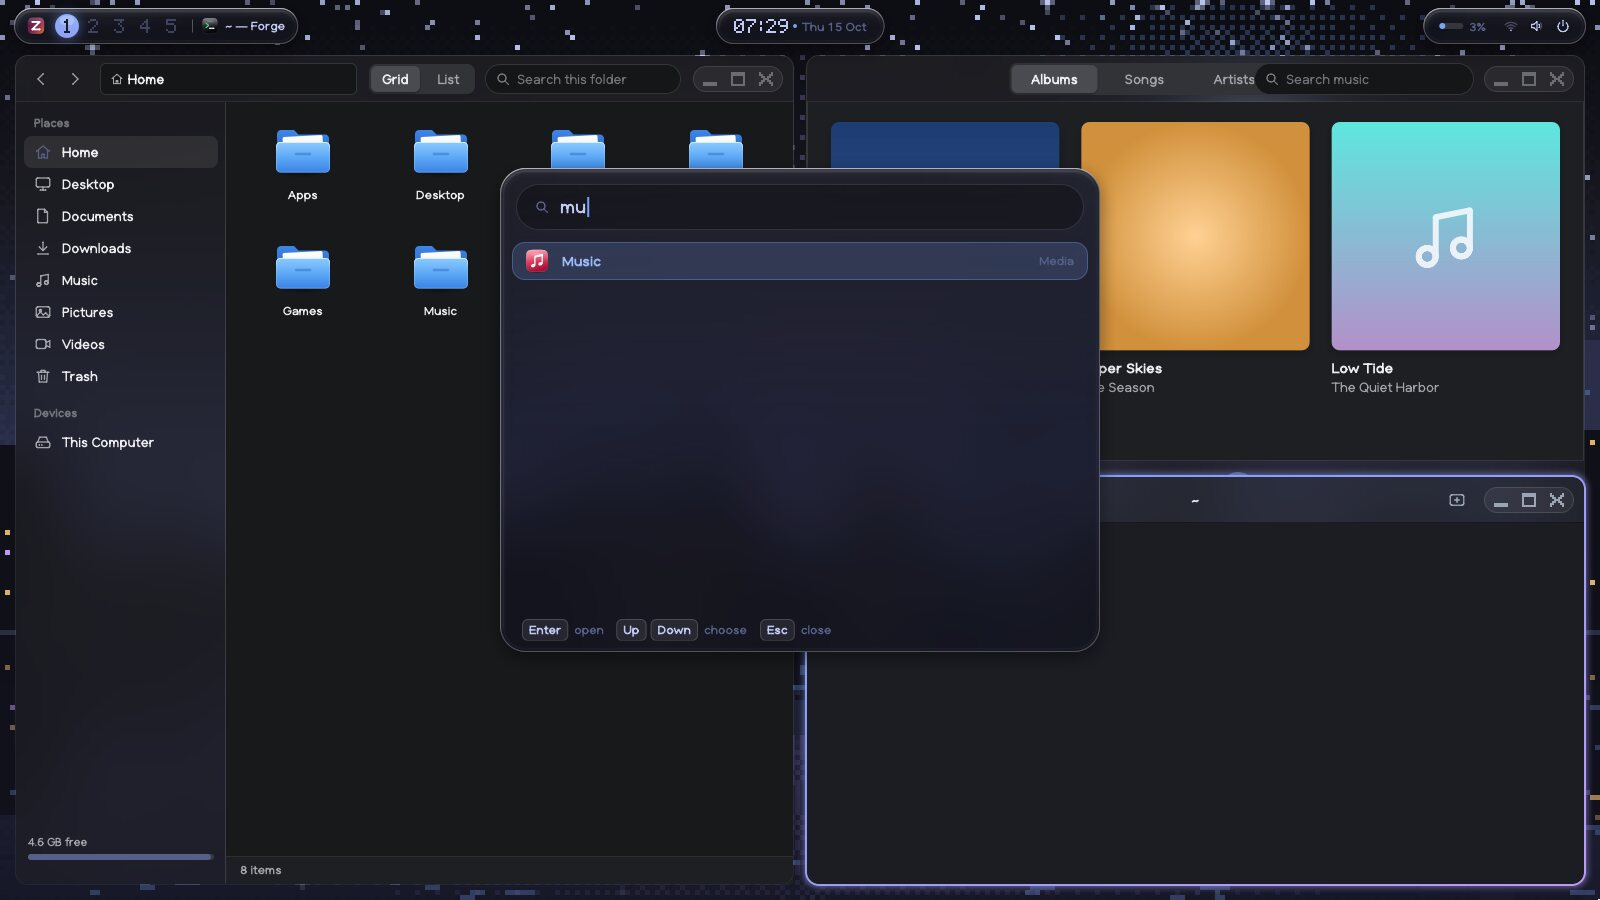
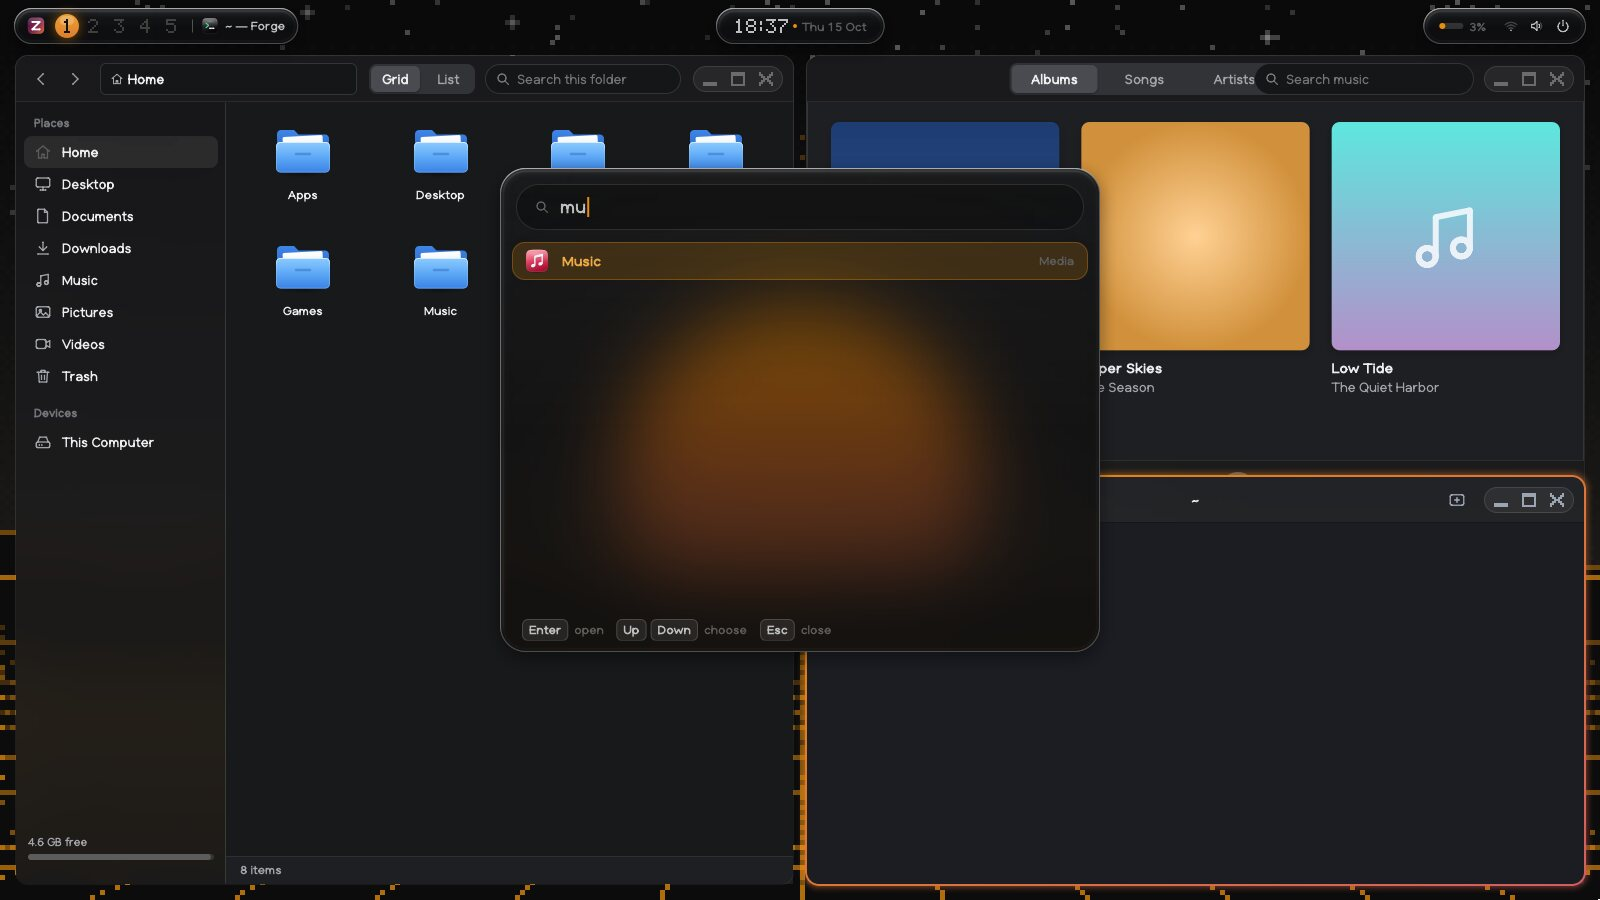
Website: Carbon by default, Midnight beside it, the name in big pixels
The page keeps the two themes the system has now, Carbon (the default)
and Midnight, with their own screenshots and wallpapers; a visitor who
had picked Matte Black or Tokyo Night gets them under the new names.

The name at the top is drawn in big pixels: letters of 11 by 13 with
stepped corners, bands of the theme's colours from top to bottom with
their edges dithered, a light along each top edge, a darker edge where a
stroke ends, a shadow a pixel down and right. It builds up block by
block as the page opens, in the ordered pattern Zurbax's windows use.
The text stays in the heading for readers and search.

Claude-Session: https://claude.ai/code/session_0191TWPGBXVuoaNNnLBj1uWH

diff --git a/website/index.html b/website/index.html
@@ -1,19 +1,19 @@
 <!doctype html>
-<html lang="en" data-theme="tokyo-night" class="no-js">
+<html lang="en" data-theme="carbon" class="no-js">
 <head>
 <meta charset="utf-8">
 <meta name="viewport" content="width=device-width, initial-scale=1">
 <title>Zurbax — liquid glass, moving pixels</title>
-<meta name="description" content="Zurbax is a desktop operating system written from the first line: Hive, a tiling desktop of liquid glass and moving pixels, eight themes, Steam and Proton, Flathub, and a driver for every part of every PC on one install image.">
+<meta name="description" content="Zurbax is a desktop operating system written from the first line: Hive, a tiling desktop of liquid glass and moving pixels, Steam and Proton, Flathub, and a driver for every part of every PC on one install image.">
 <link rel="canonical" href="https://www.zurbax.com/">
 <meta property="og:site_name" content="Zurbax">
 <meta property="og:type" content="website">
 <meta property="og:title" content="Zurbax — liquid glass, moving pixels">
 <meta property="og:description" content="A desktop operating system written from the first line. Tiled, glass, pixel-alive, and ready to play.">
-<meta property="og:image" content="https://www.zurbax.com/images/hive/hive-tokyo-night.jpg">
+<meta property="og:image" content="https://www.zurbax.com/images/hive/hive-carbon.jpg">
 <meta property="og:url" content="https://www.zurbax.com/">
 <meta name="twitter:card" content="summary_large_image">
-<meta name="theme-color" content="#1a1b26">
+<meta name="theme-color" content="#121212">
 <link rel="icon" href="/favicon.ico?v=4" sizes="48x48">
 <link rel="icon" href="/images/favicon-32.png?v=4" type="image/png" sizes="32x32">
 <link rel="icon" href="/images/tab-icon.svg?v=4" type="image/svg+xml">
@@ -23,7 +23,7 @@
  {"@type":"WebSite","name":"Zurbax","url":"https://www.zurbax.com/"},
  {"@type":"SoftwareApplication","name":"Zurbax","applicationCategory":"OperatingSystem","operatingSystem":"PC (x86-64, UEFI)",
   "description":"A free desktop operating system written from the first line, with a tiling desktop of liquid glass, Steam and Proton, Flathub and drivers for every graphics card.",
-  "url":"https://www.zurbax.com/","image":"https://www.zurbax.com/images/hive/hive-tokyo-night.jpg","offers":{"@type":"Offer","price":"0","priceCurrency":"USD"}}
+  "url":"https://www.zurbax.com/","image":"https://www.zurbax.com/images/hive/hive-carbon.jpg","offers":{"@type":"Offer","price":"0","priceCurrency":"USD"}}
 ]}
 </script>
 <script>
@@ -33,8 +33,8 @@
 <link rel="preconnect" href="https://fonts.googleapis.com">
 <link rel="preconnect" href="https://fonts.gstatic.com" crossorigin>
 <link href="https://fonts.googleapis.com/css2?family=Geist:wght@400..800&family=JetBrains+Mono:wght@400;500;700&display=swap" rel="stylesheet">
-<link rel="stylesheet" href="/home.css?v=1">
-<script src="/home.js?v=1" defer></script>
+<link rel="stylesheet" href="/home.css?v=2">
+<script src="/home.js?v=2" defer></script>
 </head>
 <body>
 
@@ -52,7 +52,7 @@
     <div class="bar-end">
       <div class="picker">
         <button class="picker-btn" type="button" aria-haspopup="true" aria-expanded="false" aria-label="Theme">
-          <span class="dots" aria-hidden="true"><i></i><i></i><i></i></span><span class="picker-name">Tokyo Night</span>
+          <span class="dots" aria-hidden="true"><i></i><i></i><i></i></span><span class="picker-name">Carbon</span>
         </button>
         <ul class="picker-list" role="menu" hidden></ul>
       </div>
@@ -69,7 +69,7 @@
   <div class="hero-bg" aria-hidden="true"><canvas class="stars"></canvas></div>
   <div class="wrap hero-in">
     <p class="kicker">zurbax 2.1 lts · written from the first line</p>
-    <h1 class="mark">Zurbax</h1>
+    <h1 class="mark"><span class="mark-text">Zurbax</span><svg class="pixel-mark" aria-hidden="true" shape-rendering="crispEdges"></svg></h1>
     <p class="tag-line">A desktop operating system of <em>liquid glass</em> and <em>moving pixels</em>. Tiled, themed, and fast, with Steam and every driver already on it.</p>
     <div class="cta">
       <a class="btn" href="#install">Get Zurbax</a>
@@ -79,7 +79,7 @@
   </div>
   <div class="wrap">
     <figure class="screen">
-      <img class="shot" src="/images/hive/hive-tokyo-night.jpg" alt="Hive: Files, Music and a terminal side by side under a floating bar of glass" width="1600" height="900">
+      <img class="shot" src="/images/hive/hive-carbon.jpg" alt="Hive: Files, Music and a terminal side by side under a floating bar of glass" width="1600" height="900">
     </figure>
   </div>
 </section>
@@ -104,7 +104,7 @@
     <p>Real screens, straight from Zurbax.</p>
   </div>
   <div class="gallery">
-    <figure class="card rise"><img src="/images/hive/hive-tokyo-night.jpg" alt="" loading="lazy" width="1600" height="900"><figcaption><b>Tiles, not clutter</b><span>Each window splits the one in focus. Gaps, glass, a ring of light around the one you're in.</span></figcaption></figure>
+    <figure class="card rise"><img src="/images/hive/hive-midnight.jpg" alt="" loading="lazy" width="1600" height="900"><figcaption><b>Tiles, not clutter</b><span>Each window splits the one in focus. Gaps, glass, a ring of light around the one you're in.</span></figcaption></figure>
     <figure class="card rise"><img src="/images/hive/hive-launcher.jpg" alt="" loading="lazy" width="1600" height="900"><figcaption><b>Super + Space</b><span>A pane of glass: type, press Enter, it's open.</span></figcaption></figure>
     <figure class="card rise"><img src="/images/hive/hive-keys.jpg" alt="" loading="lazy" width="1600" height="900"><figcaption><b>Every key at a glance</b><span>Super + K shows them all, as keycaps.</span></figcaption></figure>
     <figure class="card rise"><img src="/images/hive/hive-settings.jpg" alt="" loading="lazy" width="1600" height="900"><figcaption><b>Glass all the way in</b><span>Apps' headers and sidebars are frosted glass the wallpaper shows through.</span></figcaption></figure>
@@ -135,8 +135,8 @@
 
 <section id="themes" class="themes wrap">
   <div class="head">
-    <h2>Eight themes. This page wears them too.</h2>
-    <p>Each one colours the rings, the glass and every app, and brings its own pixel-art wallpaper, painted by the system itself. Pick one and watch.</p>
+    <h2>Two themes. This page wears them too.</h2>
+    <p>Carbon, black and orange, and Midnight, deep blue and violet. Each colours the rings, the glass and every app, and brings its own pixel-art wallpaper, painted by the system itself. Pick one and watch.</p>
   </div>
   <ul class="theme-grid"></ul>
 </section>
@@ -147,7 +147,7 @@
     <div class="pix-copy">
       <p class="kicker">the pixel style</p>
       <h2>It moves.</h2>
-      <p>The wallpapers are alive, on their own grid of big pixels: stars twinkle and now and then one shoots across, snow falls over Nord, fireflies wander the forest, petals drift past Fuji, birds cross the desert, light glitters on the water.</p>
+      <p>The wallpapers are alive, on their own grid of big pixels: stars twinkle and now and then one shoots across, lines run down Carbon's grid towards you, and light glitters on the river under Midnight's city.</p>
       <p>Windows build up block by block as they open and fall apart the same way as they close. Maximize one, or send it to the tray, and it passes through a mosaic on the way. The pointer, the clock and the workspace numbers are drawn in pixels too.</p>
       <p class="fine">All of it costs about a quarter of one percent of a processor, and one switch in Settings turns it off.</p>
     </div>

diff --git a/website/home.css b/website/home.css
@@ -1,37 +1,16 @@
 /* zurbax.com: one dark page in the colours of Hive's themes */
 
 :root,
-[data-theme="tokyo-night"] {
-	--deep: #13141c; --bg: #1a1b26; --surface: #1f2230; --surface-2: #24283b; --border: #2a2e45; --border-2: #414868;
-	--text: #c0caf5; --text-2: #a9b1d6; --muted: #8b93b8; --brand: #7aa2f7; --brand-2: #bb9af7; --ink: #0c0e14;
-}
-[data-theme="catppuccin"] {
-	--deep: #161622; --bg: #1e1e2e; --surface: #24243a; --surface-2: #313244; --border: #313244; --border-2: #585b70;
-	--text: #cdd6f4; --text-2: #bac2de; --muted: #9399b2; --brand: #cba6f7; --brand-2: #89b4fa; --ink: #11111b;
-}
-[data-theme="gruvbox"] {
-	--deep: #1d2021; --bg: #282828; --surface: #32302f; --surface-2: #3c3836; --border: #3c3836; --border-2: #665c54;
-	--text: #ebdbb2; --text-2: #d5c4a1; --muted: #a89984; --brand: #fe8019; --brand-2: #fabd2f; --ink: #1d2021;
-}
-[data-theme="nord"] {
-	--deep: #262b35; --bg: #2e3440; --surface: #343a47; --surface-2: #3b4252; --border: #3b4252; --border-2: #4c566a;
-	--text: #eceff4; --text-2: #d8dee9; --muted: #a3abbd; --brand: #88c0d0; --brand-2: #b48ead; --ink: #242933;
-}
-[data-theme="everforest"] {
-	--deep: #232a2e; --bg: #2d353b; --surface: #343f44; --surface-2: #3d484d; --border: #3d484d; --border-2: #56635f;
-	--text: #d3c6aa; --text-2: #c9bfa4; --muted: #9da9a0; --brand: #a7c080; --brand-2: #83c092; --ink: #1e2326;
-}
-[data-theme="kanagawa"] {
-	--deep: #16161d; --bg: #1f1f28; --surface: #2a2a37; --surface-2: #363646; --border: #2a2a37; --border-2: #54546d;
-	--text: #dcd7ba; --text-2: #c8c093; --muted: #a6a69c; --brand: #7e9cd8; --brand-2: #d27e99; --ink: #16161d;
-}
-[data-theme="rose-pine"] {
-	--deep: #12101a; --bg: #191724; --surface: #1f1d2e; --surface-2: #26233a; --border: #26233a; --border-2: #403d52;
-	--text: #e0def4; --text-2: #c4c0dc; --muted: #908caa; --brand: #ebbcba; --brand-2: #c4a7e7; --ink: #191724;
-}
-[data-theme="matte-black"] {
+[data-theme="carbon"] {
 	--deep: #0b0b0b; --bg: #121212; --surface: #1a1a1a; --surface-2: #222222; --border: #222222; --border-2: #3a3a3a;
 	--text: #e6e6e6; --text-2: #bebebe; --muted: #8a8a8a; --brand: #e68e0d; --brand-2: #d35f5f; --ink: #0b0b0b;
+	/* the wordmark's bands, top to bottom, and its shadow */
+	--b1: #ffd98a; --b2: #f7b443; --b3: #e68e0d; --b4: #d9652a; --b5: #b5402f; --shade: #2a1608;
+}
+[data-theme="midnight"] {
+	--deep: #13141c; --bg: #1a1b26; --surface: #1f2230; --surface-2: #24283b; --border: #2a2e45; --border-2: #414868;
+	--text: #c0caf5; --text-2: #a9b1d6; --muted: #8b93b8; --brand: #7aa2f7; --brand-2: #bb9af7; --ink: #0c0e14;
+	--b1: #dfe5ff; --b2: #b4c3fb; --b3: #7aa2f7; --b4: #6e7fe0; --b5: #8d6fd6; --shade: #0b0d18;
 }
 
 *, *::before, *::after { box-sizing: border-box; }
@@ -114,7 +93,7 @@ section { padding: 96px 0; }
 /* ---- the hero ---- */
 .hero { position: relative; padding: 96px 0 72px; overflow: hidden; isolation: isolate; }
 .hero-bg {
-	position: absolute; inset: 0; z-index: -1; background: var(--deep) var(--wall, url("/images/hive/bit-tokyo-night.png")) center 30% / cover no-repeat;
+	position: absolute; inset: 0; z-index: -1; background: var(--deep) var(--wall, url("/images/hive/bit-carbon.png")) center 30% / cover no-repeat;
 	image-rendering: pixelated; transition: background-image .6s;
 }
 .hero-bg::after {
@@ -123,10 +102,20 @@ section { padding: 96px 0; }
 }
 .stars { position: absolute; inset: 0; width: 100%; height: 100%; z-index: 1; image-rendering: pixelated; }
 .hero-in { position: relative; z-index: 2; text-align: center; display: flex; flex-direction: column; align-items: center; }
-.mark {
-	font-size: clamp(72px, 15vw, 196px); font-weight: 800; letter-spacing: -0.06em; line-height: .9; margin: 6px 0 22px;
-	background: linear-gradient(180deg, var(--text) 30%, color-mix(in srgb, var(--brand) 60%, var(--text))); -webkit-background-clip: text; background-clip: text; color: transparent;
-}
+.mark { margin: 14px 0 34px; line-height: 0; width: min(940px, 100%); }
+.mark-text { font-size: clamp(72px, 15vw, 196px); font-weight: 800; letter-spacing: -0.06em; line-height: .9; color: var(--text); }
+/* drawn in pixels once the script is in: the text stays for readers and search */
+.js .mark-text { position: absolute; width: 1px; height: 1px; overflow: hidden; clip-path: inset(50%); white-space: nowrap; }
+.pixel-mark { display: none; width: 100%; height: auto; overflow: visible; filter: drop-shadow(0 18px 40px color-mix(in srgb, var(--brand) 28%, transparent)); }
+.js .pixel-mark { display: block; }
+.pixel-mark .b1 { fill: var(--b1); } .pixel-mark .b2 { fill: var(--b2); } .pixel-mark .b3 { fill: var(--b3); }
+.pixel-mark .b4 { fill: var(--b4); } .pixel-mark .b5 { fill: var(--b5); } .pixel-mark .sh { fill: var(--shade); }
+.pixel-mark .hl { fill: #fff; fill-opacity: .3; }
+.pixel-mark .dk { fill: #000; fill-opacity: .22; }
+.pixel-mark rect { transition: fill .5s; }
+.pixel-mark.build rect.px { animation: pop 1ms steps(1) both; animation-delay: var(--d); }
+.pixel-mark.build rect.sh { animation: pop 1ms steps(1) both; animation-delay: calc(var(--d) + .05s); }
+@keyframes pop { from { opacity: 0; } to { opacity: 1; } }
 .tag-line { font-size: clamp(18px, 2.2vw, 23px); color: var(--text-2); max-width: 660px; }
 .tag-line em { font-style: normal; color: var(--text); background: linear-gradient(90deg, var(--brand), var(--brand-2)); -webkit-background-clip: text; background-clip: text; color: transparent; font-weight: 650; }
 .cta { display: flex; flex-wrap: wrap; justify-content: center; gap: 12px; margin: 32px 0 18px; }
@@ -173,7 +162,7 @@ kbd {
 }
 
 /* ---- themes ---- */
-.theme-grid { list-style: none; margin: 0; padding: 0; display: grid; grid-template-columns: repeat(4, 1fr); gap: 16px; }
+.theme-grid { list-style: none; margin: 0; padding: 0; display: grid; grid-template-columns: repeat(2, 1fr); gap: 22px; max-width: 900px; }
 .theme-grid button {
 	width: 100%; padding: 0; cursor: pointer; text-align: left; background: var(--surface); color: var(--text);
 	border: 1px solid var(--border); border-radius: 14px; overflow: hidden; font: inherit; transition: transform .2s, border-color .2s;
@@ -191,7 +180,7 @@ kbd {
 .pix-copy .fine { font-size: 13px; }
 .pix-demo {
 	position: relative; aspect-ratio: 4 / 3; border-radius: 16px; overflow: hidden; border: 1px solid var(--border-2);
-	background: var(--deep) var(--wall, url("/images/hive/bit-tokyo-night.png")) center / cover; image-rendering: pixelated;
+	background: var(--deep) var(--wall, url("/images/hive/bit-carbon.png")) center / cover; image-rendering: pixelated;
 }
 .pix-grid { position: absolute; inset: 14% 12%; display: grid; grid-template-columns: repeat(16, 1fr); grid-template-rows: repeat(10, 1fr); }
 .pix-grid i { background: var(--surface-2); opacity: 0; }
@@ -240,7 +229,6 @@ kbd {
 	.nav { display: none; }
 	.about, .hive-in, .pixels-in, .install-in { grid-template-columns: 1fr; gap: 36px; }
 	.cards { grid-template-columns: 1fr; }
-	.theme-grid { grid-template-columns: repeat(2, 1fr); }
 	section { padding: 72px 0; }
 }
 @media (max-width: 600px) {
@@ -252,6 +240,7 @@ kbd {
 }
 @media (prefers-reduced-motion: reduce) {
 	html { scroll-behavior: auto; }
+	.pixel-mark.build rect { animation: none; }
 	.js .rise { opacity: 1; transform: none; transition: none; }
 	.pix-demo.play .pix-grid i { animation: none; opacity: 1; }
 }

diff --git a/website/home.js b/website/home.js
@@ -3,19 +3,17 @@
   const root = document.documentElement;
   root.classList.replace('no-js', 'js');
   const still = matchMedia('(prefers-reduced-motion: reduce)').matches;
+  // the ordered pattern things build up in, here as in Zurbax (an 8x8 Bayer matrix)
+  const BAYER = [0, 32, 8, 40, 2, 34, 10, 42, 48, 16, 56, 24, 50, 18, 58, 26, 12, 44, 4, 36, 14, 46, 6, 38, 60, 28, 52, 20, 62, 30, 54, 22,
+    3, 35, 11, 43, 1, 33, 9, 41, 51, 19, 59, 27, 49, 17, 57, 25, 15, 47, 7, 39, 13, 45, 5, 37, 63, 31, 55, 23, 61, 29, 53, 21];
 
-  // Hive's eight themes, as the system has them: id, name, background, text, the two accents
+  // Hive's themes, as the system has them: id, name, background, text, the two accents
   const THEMES = [
-    ['tokyo-night', 'Tokyo Night', '#1a1b26', '#c0caf5', '#7aa2f7', '#bb9af7'],
-    ['catppuccin', 'Catppuccin', '#1e1e2e', '#cdd6f4', '#cba6f7', '#89b4fa'],
-    ['gruvbox', 'Gruvbox', '#282828', '#ebdbb2', '#fe8019', '#fabd2f'],
-    ['nord', 'Nord', '#2e3440', '#eceff4', '#88c0d0', '#b48ead'],
-    ['everforest', 'Everforest', '#2d353b', '#d3c6aa', '#a7c080', '#83c092'],
-    ['kanagawa', 'Kanagawa', '#1f1f28', '#dcd7ba', '#7e9cd8', '#d27e99'],
-    ['rose-pine', 'Rosé Pine', '#191724', '#e0def4', '#ebbcba', '#c4a7e7'],
-    ['matte-black', 'Matte Black', '#121212', '#e6e6e6', '#e68e0d', '#d35f5f'],
+    ['carbon', 'Carbon', '#121212', '#e6e6e6', '#e68e0d', '#d35f5f'],
+    ['midnight', 'Midnight', '#1a1b26', '#c0caf5', '#7aa2f7', '#bb9af7'],
   ];
-  const byId = id => THEMES.find(t => t[0] === id) || THEMES[0];
+  const OLD = { 'matte-black': 'carbon', 'tokyo-night': 'midnight' }; /* what they were called */
+  const byId = id => THEMES.find(t => t[0] === (OLD[id] || id)) || THEMES[0];
   const swatch = t => `<span class="sw" aria-hidden="true"><i style="background:${t[4]}"></i><i style="background:${t[5]}"></i><i style="background:${t[3]}"></i></span>`;
 
   const picker = document.querySelector('.picker');
@@ -112,11 +110,57 @@
     return api;
   })();
   stars.start();
+
+  // the name in big pixels: letters of 11 by 13, bands of colour from top to
+  // bottom with their edges dithered, a light along each top edge and a
+  // shadow a pixel down and right; it builds up block by block, in the
+  // ordered pattern Zurbax's windows use
+  const LETTERS = {
+    Z: ['.XXXXXXXXX.', 'XXXXXXXXXXX', 'XXXXXXXXXXX', '......XXXX.', '.....XXXX..', '....XXXX...', '...XXXX....', '..XXXX.....', '.XXXX......', 'XXXX.......', 'XXXXXXXXXXX', 'XXXXXXXXXXX', '.XXXXXXXXX.'],
+    U: ['XXX.....XXX', 'XXX.....XXX', 'XXX.....XXX', 'XXX.....XXX', 'XXX.....XXX', 'XXX.....XXX', 'XXX.....XXX', 'XXX.....XXX', 'XXX.....XXX', 'XXX.....XXX', 'XXXX...XXXX', '.XXXXXXXXX.', '..XXXXXXX..'],
+    R: ['XXXXXXXXX..', 'XXXXXXXXXX.', 'XXX....XXXX', 'XXX.....XXX', 'XXX....XXXX', 'XXXXXXXXXX.', 'XXXXXXXXX..', 'XXX..XXXX..', 'XXX...XXXX.', 'XXX....XXX.', 'XXX....XXXX', 'XXX.....XXX', 'XXX.....XXX'],
+    B: ['XXXXXXXXX..', 'XXXXXXXXXX.', 'XXX....XXXX', 'XXX.....XXX', 'XXX....XXXX', 'XXXXXXXXXX.', 'XXXXXXXXXX.', 'XXX....XXXX', 'XXX.....XXX', 'XXX.....XXX', 'XXX....XXXX', 'XXXXXXXXXX.', 'XXXXXXXXX..'],
+    A: ['...XXXXX...', '..XXXXXXX..', '.XXXX.XXXX.', 'XXXX...XXXX', 'XXX.....XXX', 'XXX.....XXX', 'XXXXXXXXXXX', 'XXXXXXXXXXX', 'XXX.....XXX', 'XXX.....XXX', 'XXX.....XXX', 'XXX.....XXX', 'XXX.....XXX'],
+    X: ['XXX.....XXX', 'XXX.....XXX', 'XXXX...XXXX', '.XXXX.XXXX.', '..XXXXXXX..', '...XXXXX...', '....XXX....', '...XXXXX...', '..XXXXXXX..', '.XXXX.XXXX.', 'XXXX...XXXX', 'XXX.....XXX', 'XXX.....XXX'],
+  };
+  const BAND = [1, 1, 2, 2, 2, 3, 3, 3, 4, 4, 4, 5, 5]; /* the band of each row */
+  (() => {
+    const svg = document.querySelector('.pixel-mark');
+    if (!svg) return;
+    const word = 'ZURBAX', W = 11, H = 13, GAP = 2;
+    const cells = [];
+    [...word].forEach((ch, li) => {
+      const g = LETTERS[ch];
+      for (let y = 0; y < H; y++) for (let x = 0; x < W; x++)
+        if (g[y][x] === 'X') cells.push({
+          x: li * (W + GAP) + x, y,
+          top: y === 0 || g[y - 1][x] !== 'X',
+          /* a darker edge where the stroke ends on the right or below: the letters stand up */
+          low: x === W - 1 || g[y][x + 1] !== 'X' || y === H - 1 || g[y + 1][x] !== 'X',
+        });
+    });
+    const turn = (x, y) => (BAYER[(y & 7) * 8 + (x & 7)] + 0.5) / 64;
+    const r = (x, y, cls, d) => `<rect x="${x}" y="${y}" width="1.04" height="1.04" class="${cls}" style="--d:${d}s"/>`;
+    let shade = '', body = '', light = '', dark = '';
+    for (const c of cells) {
+      const d = (turn(c.x, c.y) * 0.6).toFixed(3);
+      let b = BAND[c.y];
+      /* where one band meets the next, the two in a checker */
+      if (c.y > 0 && BAND[c.y - 1] !== b && (c.x + c.y) % 2) b = BAND[c.y - 1];
+      shade += r(c.x + 1, c.y + 1, 'sh', d);
+      body += r(c.x, c.y, `px b${b}`, d);
+      if (c.top) light += r(c.x, c.y, 'px hl', d);
+      else if (c.low) dark += r(c.x, c.y, 'px dk', d);
+    }
+    const width = word.length * (W + GAP) - GAP + 1;
+    svg.setAttribute('viewBox', `0 0 ${width} ${H + 1}`);
+    svg.innerHTML = shade + body + dark + light;
+    if (!still) svg.classList.add('build');
+  })();
+
   apply(root.dataset.theme, false);
 
   // a window arriving block by block, in the ordered pattern Zurbax uses
-  const BAYER = [0, 32, 8, 40, 2, 34, 10, 42, 48, 16, 56, 24, 50, 18, 58, 26, 12, 44, 4, 36, 14, 46, 6, 38, 60, 28, 52, 20, 62, 30, 54, 22,
-    3, 35, 11, 43, 1, 33, 9, 41, 51, 19, 59, 27, 49, 17, 57, 25, 15, 47, 7, 39, 13, 45, 5, 37, 63, 31, 55, 23, 61, 29, 53, 21];
   const pg = document.querySelector('.pix-grid');
   const cells = [];
   for (let y = 0; y < 10; y++) for (let x = 0; x < 16; x++) {
